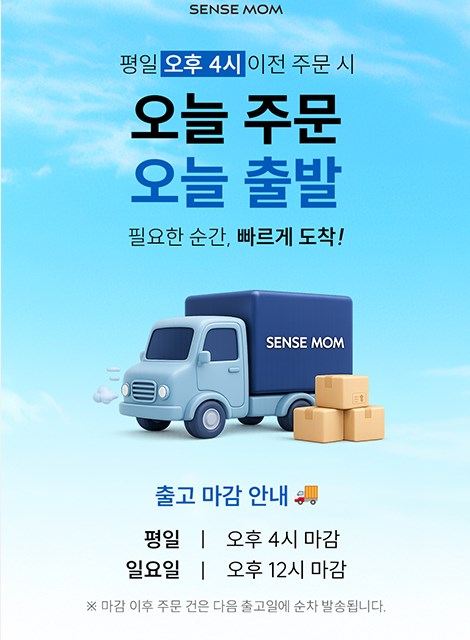
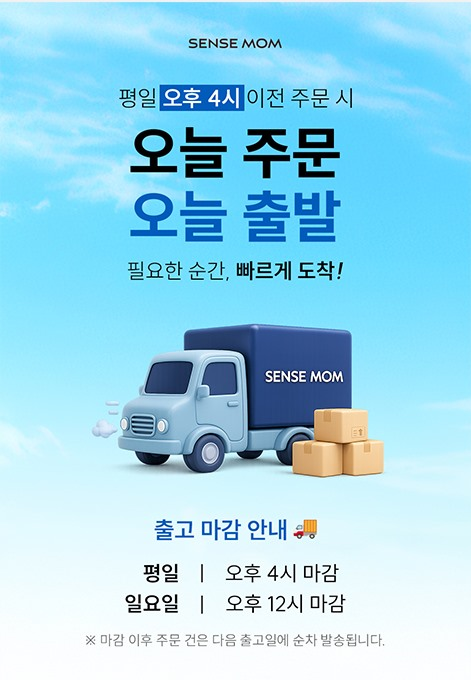
프로모션 스크롤을 시트 끝까지 확장 + 오늘주문 팝업 상하 잘림 수정(픽셀 스캔 재크롭 471×680)

diff --git a/js/main.js b/js/main.js
@@ -220,8 +220,8 @@ function initSite(){
       let mobMax = 0;   // 모바일 내부 스크롤 거리 = 이미지 표시 높이 - 프레임 높이 (끝에 빈 공간 없음)
       const popImg = document.getElementById('svcPopImg');
       let popStart = 0, popTravel = 0;   // 팝업 모음: 첫 줄(헤더 띠 제외)에서 시작 → 줄 단위로 아래 내용 노출
-      // pro1 시트 실측(px/8348): 첫 줄 위 여백 640, 종점은 큰 세로 팝업 블록 끝(5170)에 맞춰 끝 화면 정렬
-      const POP_START_FRAC = 640 / 8348, POP_END_FRAC = 4270 / 8348;
+      // pro1 시트 실측(px/8348): 첫 줄 위 여백 640 에서 시작해 시트 끝까지 — 종점은 코드에서 이미지 끝에 맞춰 캡
+      const POP_START_FRAC = 640 / 8348, POP_END_FRAC = 1;
 
       // 패널 키프레임 [p, x(vw), y(vh), scale, rotate(deg), opacity, z]
       // 장면 배분: 0~.15 진입 / .15~.35 Web Design / .42~.62 Publishing / .69~.89 Detail&Promo / .89~1 모음

diff --git a/css/style.css b/css/style.css
@@ -266,7 +266,7 @@
   .svc-panel.pC{ width:56vw; aspect-ratio:1920/900; }   /* 팝업 모음 프레임 — 한 화면에 2줄(8종) */
   .svc-panel.pC img{ height:auto; object-fit:unset; will-change:transform; }   /* 내부 스크롤용 */
   .svc-panel .m-only{ display:none; }
-  .svc-panel.pD{ width:17vw; aspect-ratio:470/640; }
+  .svc-panel.pD{ width:17vw; aspect-ratio:471/680; }
   /* 설명 — 우측 약 27% 폭, 진행률에 따라 짧은 상승+페이드 */
   .svc-copy{ position:absolute; left:66vw; top:50%; width:min(380px,28vw); z-index:7; opacity:0; }
   .svc-copy .k{ font-size:12.5px; font-weight:700; letter-spacing:.08em; color:var(--gray); }
